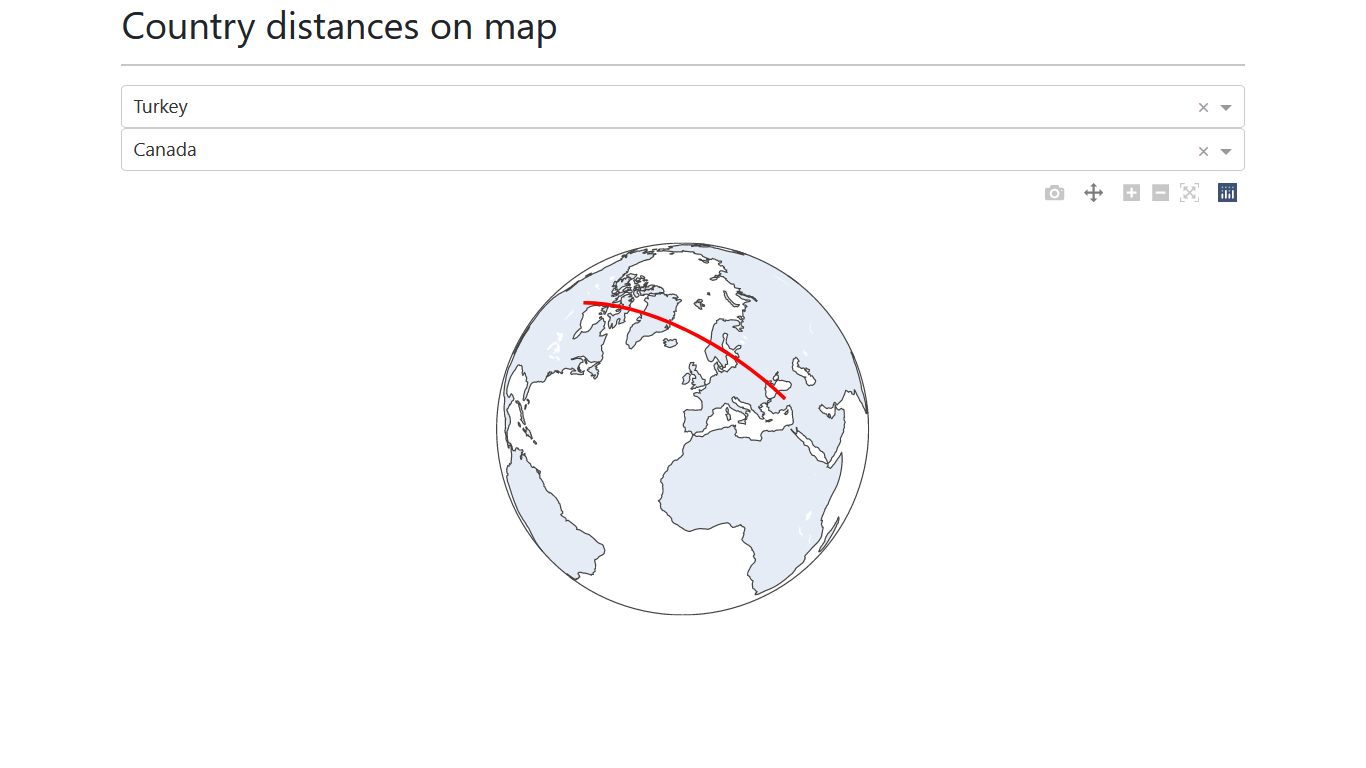
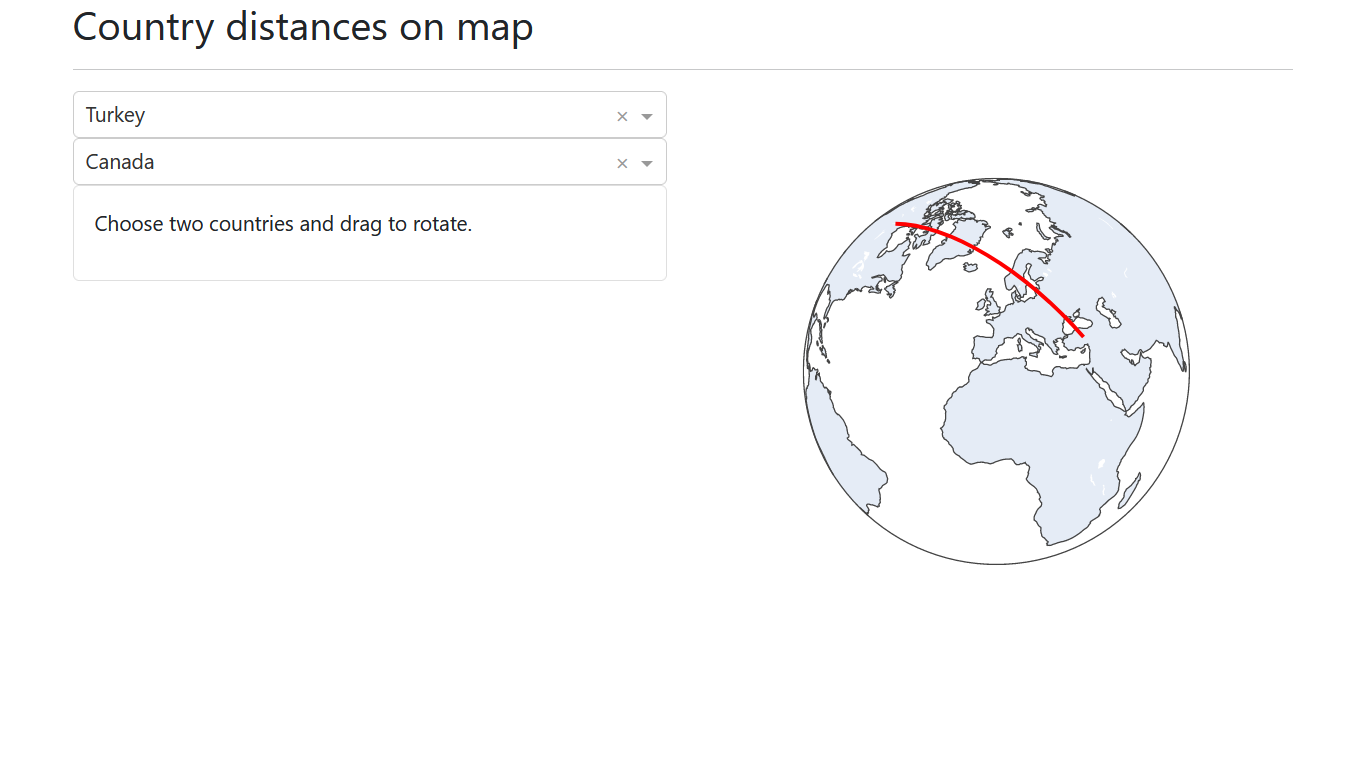
comments, libraries and layout adjustments

diff --git a/examples/country-distances.py b/examples/country-distances.py
@@ -1,44 +1,43 @@
 from dash import Dash, dcc, html, Input, Output, no_update
 import plotly.express as px
-import pandas as pd
 import dash_bootstrap_components as dbc
 
 # Defining the Dash application
 app = Dash(external_stylesheets=[dbc.themes.BOOTSTRAP])
 
-# Countries data
 df = px.data.gapminder().query("year == 2007")
 
-# Country dropdown a
 dropdown_country_a = dcc.Dropdown(
     id="country-distances-dropdown-a",
     options=[cntry for cntry in df.country],
     value="Turkey",
 )
 
-# Country dropdown b
 dropdown_country_b = dcc.Dropdown(id="country-distances-dropdown-b")
 
-# Application layout
+info_card = dbc.Card(
+    dbc.CardBody(html.P("Choose two countries and drag to rotate."))
+)
+
 app.layout = dbc.Container(
     [
         html.H2("Country distances on map"),
         html.Hr(),
-        dbc.Row(dbc.Col([dropdown_country_a, dropdown_country_b], lg=12, sm=12)),
-        dbc.Row(dbc.Col(dcc.Graph(id="country-distances-graph"), lg=12, sm=12)),
+        dbc.Row(
+            [
+                dbc.Col([dropdown_country_a, dropdown_country_b, info_card], lg=6, sm=12),
+                dbc.Col(dcc.Graph(id="country-distances-graph"), lg=6, sm=12),
+            ]
+        )
     ]
 )
 
 # Callback for dropdown-b
 @app.callback(
-    [
-        Output("country-distances-dropdown-b", "options"),
-        Output("country-distances-dropdown-b", "value"),
-    ],
-    [
-        Input("country-distances-dropdown-a", "value"),
-        Input("country-distances-dropdown-b", "options"),
-    ],
+    Output("country-distances-dropdown-b", "options"),
+    Output("country-distances-dropdown-b", "value"),
+    Input("country-distances-dropdown-a", "value"),
+    Input("country-distances-dropdown-b", "options"),
 )
 def set_dropdown_b_options(dropdown_a_value, dropdown_b_options):
     return (
@@ -50,10 +49,8 @@ def set_dropdown_b_options(dropdown_a_value, dropdown_b_options):
 # Callback for line_geo graph
 @app.callback(
     Output("country-distances-graph", "figure"),
-    [
-        Input("country-distances-dropdown-a", "value"),
-        Input("country-distances-dropdown-b", "value"),
-    ],
+    Input("country-distances-dropdown-a", "value"),
+    Input("country-distances-dropdown-b", "value"),
 )
 def make_line_geo_graph(country_a, country_b):
 

diff --git a/pages/country-distances.py b/pages/country-distances.py
@@ -6,7 +6,7 @@ from utils.code_and_show import example_app
 dash.register_page(
     __name__,
     description="This application plots line on a map between the selected countries.",
-    layout_type="top-bottom",
+    layout_type="side by side",
     components_type=["dropdown"],
     graph_type="line_geo",
     callback_type=["general", "dynamic"],
